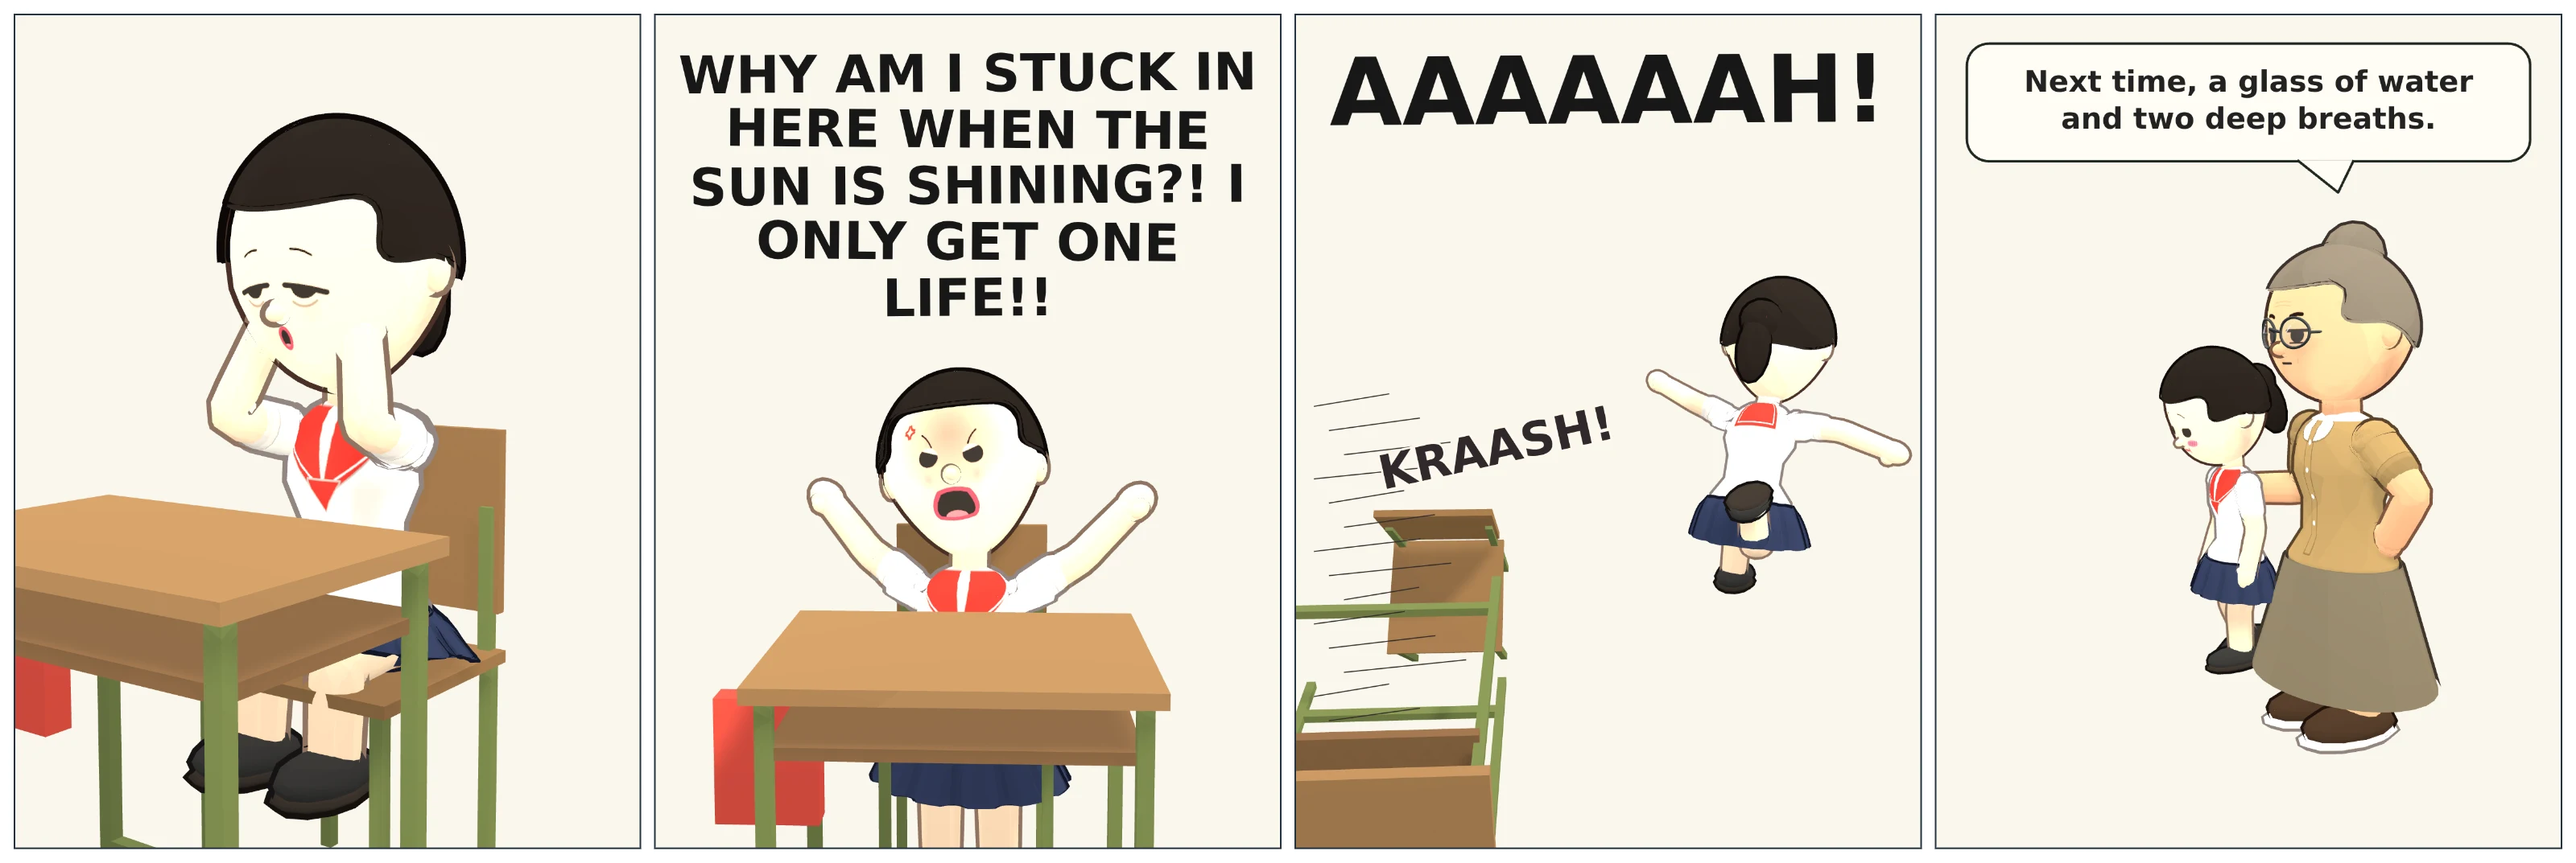
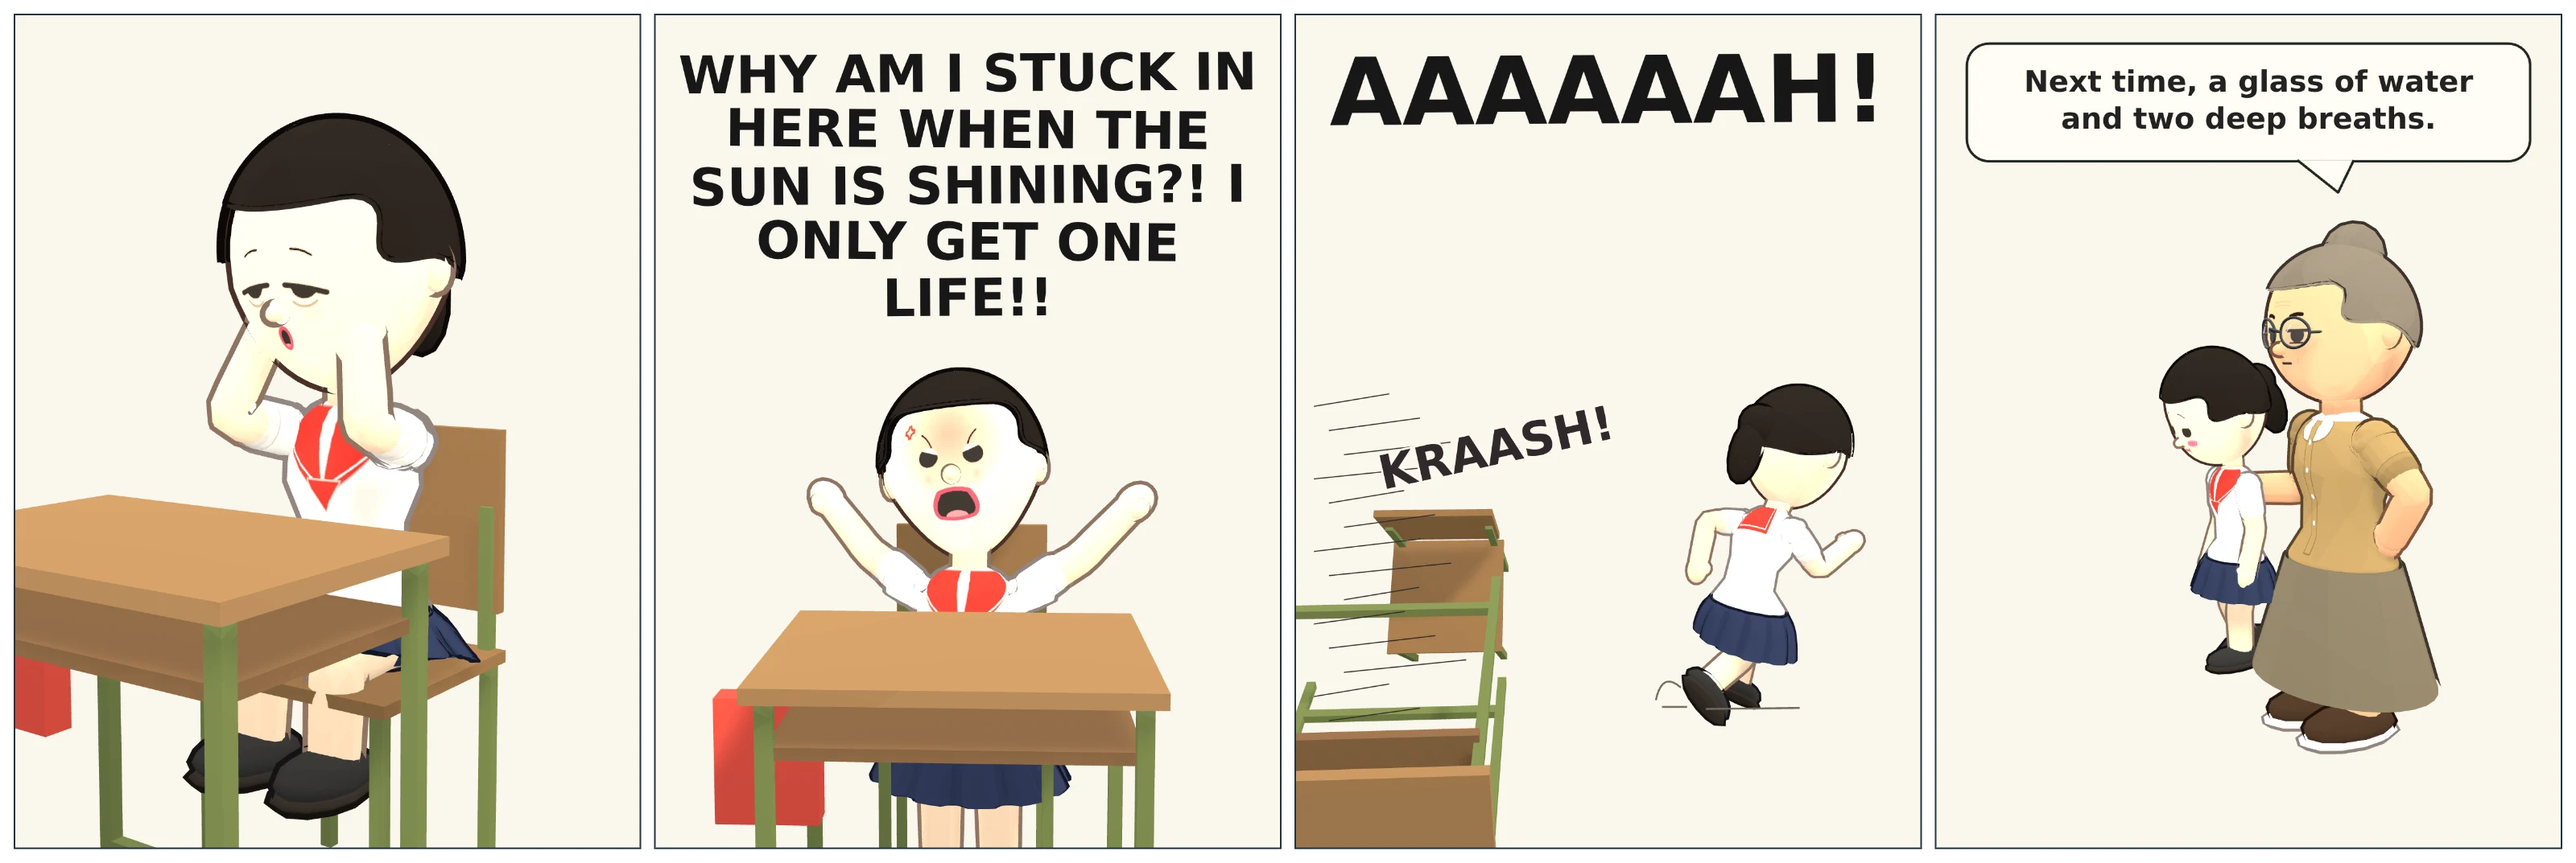
Ground Vy escape in a running stride with pumping arms

Changed region(s): [[0.625, 0.3075, 0.75, 0.8304]]

diff --git a/avatar-creator/scene.js b/avatar-creator/scene.js
@@ -1,6 +1,7 @@
-import {drawShout,drawStatement} from './scene-lettering.js?v=20261020-framing';
+import {drawShout,drawStatement} from './scene-lettering.js?v=20261020-grounded';
 import {CLASSROOM_VIEW} from './classroom-stage.js';
-import {classroomComic} from './classroom-comic.mjs?v=20261020-framing';
+import {classroomComic} from './classroom-comic.mjs?v=20261020-grounded';
+import {createSoleFinder} from '../johansson-town/src/avatars/foot-ground.js';
 import {applySceneContacts} from './scene-contact.js';
 import {filmStaging} from './film-staging.mjs';
 import {KNOWN_EXPRESSIONS,KNOWN_POSES} from './scene-catalogue.mjs';
@@ -17,8 +18,8 @@ import {STUDIO_CHARACTERS} from '../johansson-town/src/studio/characters-data.js
 import {normalizeRecipe} from '../johansson-town/src/avatars/recipe.js';
 import {drawCaptions,comicLayout,FORMATS} from '../johansson-town/src/photo/layout.js';
 import {buildSceneWorld} from './scene-world.js?v=20261011-2';
-import {poseSceneAvatar,placeSceneAvatar,movingPose} from './scene-avatar.js?v=20261020-framing';
-import {SCENE_KEY,MAX_ACTORS,MAX_PANELS,LOCATIONS,emptyScene,normalizeScene,addCharacter,removeCharacter,restoreCharacter,panelOrder,text,placementOf,applyPlacement,samePlacement} from './scene-model.mjs?v=20261020-framing';
+import {poseSceneAvatar,placeSceneAvatar,movingPose} from './scene-avatar.js?v=20261020-grounded';
+import {SCENE_KEY,MAX_ACTORS,MAX_PANELS,LOCATIONS,emptyScene,normalizeScene,addCharacter,removeCharacter,restoreCharacter,panelOrder,text,placementOf,applyPlacement,samePlacement} from './scene-model.mjs?v=20261020-grounded';
 import {pickMoment,applyMoment,aim} from './scene-moments.mjs?v=20261011-2';
 import {POSE_GROUPS,EXPRESSION_GROUPS,seatedPose} from './scene-catalogue.mjs';
 import {turnToward,touchAngle,twistTurn,nudgeStep,placeToolbar,pickBox,nearestSeat} from './scene-controls.mjs?v=20261011-2';
@@ -36,7 +37,7 @@ const figure=body=>`<svg class="ui-icon" aria-hidden="true" width="24" height="2
 const sitIcon=figure('<circle cx="9" cy="4.5" r="2.5"/><path d="M9 8v6h6v6M9 10.5l4.5 2M4 21h16"/>'),standIcon=figure('<circle cx="12" cy="4.5" r="2.5"/><path d="M12 8v7M8.5 11.5h7M9.5 21l2.5-6 2.5 6"/>');
 const choice=(name,label,options)=>`<div class="scene-choice" role="group" aria-label="${label}" data-choice="${name}">${options.map(([value,text])=>`<button type="button" data-value="${value}" aria-pressed="false">${text}</button>`).join('')}</div>`;
 
-function drawDash(ctx,w,h){ctx.save();ctx.strokeStyle='#332b2a';ctx.lineWidth=2;for(let i=0;i<14;i++){const y=h*(.47+i*.029),x=w*(.03+(i%3)*.024);ctx.beginPath();ctx.moveTo(x,y);ctx.lineTo(x+w*(.12+(i%4)*.025),y-h*.015);ctx.stroke();}ctx.translate(w*.14,h*.57);ctx.rotate(-.22);ctx.font=`900 ${Math.round(w*.075)}px sans-serif`;ctx.lineWidth=8;ctx.strokeStyle='#fff9ed';ctx.strokeText('KRAASH!',0,0);ctx.fillStyle='#30282b';ctx.fillText('KRAASH!',0,0);ctx.restore();}
+function drawDash(ctx,w,h,contacts=[]){ctx.save();for(const p of contacts){const x=(p.x+1)*w/2,y=(1-p.y)*h/2+3;ctx.strokeStyle='#756b5c';ctx.lineWidth=w*.003;ctx.beginPath();ctx.moveTo(x-w*.08,y+1);ctx.lineTo(x+w*.07,y-1);ctx.moveTo(x-w*.15,y-3);ctx.lineTo(x-w*.11,y-3);ctx.moveTo(x-w*.12,y-h*.025);ctx.quadraticCurveTo(x-w*.15,y-h*.045,x-w*.16,y-h*.01);ctx.stroke();}ctx.strokeStyle='#332b2a';ctx.lineWidth=2;for(let i=0;i<14;i++){const y=h*(.47+i*.029),x=w*(.03+(i%3)*.024);ctx.beginPath();ctx.moveTo(x,y);ctx.lineTo(x+w*(.12+(i%4)*.025),y-h*.015);ctx.stroke();}ctx.translate(w*.14,h*.57);ctx.rotate(-.22);ctx.font=`900 ${Math.round(w*.075)}px sans-serif`;ctx.lineWidth=8;ctx.strokeStyle='#fff9ed';ctx.strokeText('KRAASH!',0,0);ctx.fillStyle='#30282b';ctx.fillText('KRAASH!',0,0);ctx.restore();}
 /** 3D scene editor: shared town geometry, ground, furniture and avatar models. */
 export function createSceneWorkspace({getCharacter,onEdit,onMode}){
  let state=emptyScene();try{state=normalizeScene(JSON.parse(localStorage.getItem(SCENE_KEY)),normalizeRecipe);}catch{}
@@ -317,7 +318,7 @@ export function createSceneWorkspace({getCharacter,onEdit,onMode}){
      const live=state.actors.find(a=>a.id===actor.id);if(live){live.x=actor.x;live.z=actor.z;live.seat=actor.seat;}
     }
     environment.sky?.update(camera,1,false,false);renderer.render(environment.scene,camera);
-    canvas.width=w;canvas.height=h;ctx.drawImage(renderer.domElement,0,0);if(snapshot.effect==='dash')drawDash(ctx,w,h);const overlay=document.createElement('canvas');overlay.width=w;overlay.height=h;drawCaptions(overlay.getContext('2d'),w,h,{style:snapshot.style,top:snapshot.top,bottom:snapshot.bottom,bubbles:bubbles.filter(b=>!b.shout&&!b.large)});ctx.drawImage(overlay,0,0);for(const b of bubbles.filter(b=>b.shout))drawShout(ctx,w,h,b.text);for(const b of bubbles.filter(b=>b.large))drawStatement(ctx,w,h,b.text,b.x);
+    canvas.width=w;canvas.height=h;ctx.drawImage(renderer.domElement,0,0);if(snapshot.effect==='dash'){const contacts=snapshot.backdrop==='paper'?records.filter(r=>movingPose(r.actor.pose)&&!r.actor.y&&!r.actor.seat).map(r=>{const soles=createSoleFinder(r.avatar)(),side=soles.L.y<soles.R.y?'L':'R',point=r.avatar.root.worldToLocal(r.avatar.bones['foot'+side].getWorldPosition(new THREE.Vector3()));point.y=soles[side].y;point.z=soles[side].z;return r.avatar.root.localToWorld(point).project(camera);}):[];drawDash(ctx,w,h,contacts);}const overlay=document.createElement('canvas');overlay.width=w;overlay.height=h;drawCaptions(overlay.getContext('2d'),w,h,{style:snapshot.style,top:snapshot.top,bottom:snapshot.bottom,bubbles:bubbles.filter(b=>!b.shout&&!b.large)});ctx.drawImage(overlay,0,0);for(const b of bubbles.filter(b=>b.shout))drawShout(ctx,w,h,b.text);for(const b of bubbles.filter(b=>b.large))drawStatement(ctx,w,h,b.text,b.x);
     // Where each character is on the picture (fractions of it), for picking, the outline and the toolbar.
     const right=new THREE.Vector3().setFromMatrixColumn(camera.matrixWorld,0);
     boxes=placed.map(p=>{const corners=[];for(const x of [p.box.min.x,p.box.max.x])for(const y of [p.box.min.y,p.box.max.y])for(const z of [p.box.min.z,p.box.max.z])corners.push(new THREE.Vector3(x,y,z).project(camera));

diff --git a/avatar-creator/scene-avatar.js b/avatar-creator/scene-avatar.js
@@ -1,10 +1,11 @@
 import * as THREE from '../johansson-town/vendor/three.module.js';
 import {createAvatarAnimator,GESTURES} from '../johansson-town/src/avatars/animate.js';
+import {createFootGrounder} from '../johansson-town/src/avatars/foot-ground.js';
 import {reachHand} from './scene-contact.js';
 import {seatedPose} from './scene-catalogue.mjs';
 
 export const movingPose=name=>['Walk','Run','SchoolRun'].includes(name);
-const motion=new WeakMap();
+const motion=new WeakMap(),supports=new WeakMap();
 export function poseSceneAvatar(avatar,{pose='Idle',expression='smile',turn=0,seatHeight=.48,time:sample=0}){
  const custom=pose;pose=({SchoolRest:'Sit',SchoolProtest:'Tada',SchoolRun:'Idle',ComicLeap:'Idle',LiftedBack:'Idle',HoldBack:'Idle'})[pose]||pose;
  const duration=GESTURES[pose],time=Number.isFinite(duration)?duration*.43:.7;
@@ -16,7 +17,9 @@ export function poseSceneAvatar(avatar,{pose='Idle',expression='smile',turn=0,se
    track={pose:custom,time:0,animator:createAvatarAnimator(avatar,{random:()=>.5,initialTime:0})};motion.set(avatar,track);
   }
   avatar.root.position.y=track.rootY||0;
+  const advanced=track.time<elapsed-1e-8;
   while(track.time<elapsed-1e-8){const dt=Math.min(.025,elapsed-track.time);track.animator.update(dt,{expression,speed:custom==='Walk'?1.1:3.8,running:custom!=='Walk'});track.time+=dt;}track.rootY=avatar.root.position.y;
+  if(advanced)track.poseBones=Object.values(avatar.bones).map(b=>[b,b.quaternion.clone()]);else for(const [b,q] of track.poseBones)b.quaternion.copy(q);
  }else{
   const animator=createAvatarAnimator(avatar,{random:()=>.5,initialTime:0});if(duration)animator.play(pose);
   const steps=Math.ceil(time/.025);
@@ -25,6 +28,7 @@ export function poseSceneAvatar(avatar,{pose='Idle',expression='smile',turn=0,se
  const b=avatar.bones;
  if(custom==='SchoolRest'){b.head.rotation.x=.15;b.shoulderL.rotation.set(-1.2,0,.25);b.elbowL.rotation.x=-1.7;b.shoulderR.rotation.set(-1.2,0,-.25);b.elbowR.rotation.x=-1.7;}
  if(custom==='SchoolProtest'){b.chest.rotation.x=-.17;b.head.rotation.x=-.15;b.shoulderL.rotation.set(-.35,0,2.15);b.shoulderR.rotation.set(-.35,0,-2.15);b.elbowL.rotation.x=-.12;b.elbowR.rotation.x=-.12;b.thighL.rotation.set(0,0,0);b.kneeL.rotation.set(0,0,0);}
+ if(custom==='SchoolRun'){b.hips.rotation.x=.16;b.chest.rotation.x+=.22;b.head.rotation.x-=.08;b.shoulderL.rotation.x*=1.35;b.shoulderR.rotation.x*=1.35;b.elbowL.rotation.x=-1.45;b.elbowR.rotation.x=-1.45;let ground=supports.get(avatar);if(!ground){ground=createFootGrounder(avatar);supports.set(avatar,ground);}ground(0);}
  if(custom==='ComicLeap'){b.hips.rotation.x=.25;b.chest.rotation.x=.28;b.head.rotation.x=-.24;b.thighL.rotation.set(-1.15,0,.12);b.thighR.rotation.set(.8,0,-.1);b.kneeL.rotation.x=.9;b.kneeR.rotation.x=1.9;b.shoulderL.rotation.set(-.6,0,1.9);b.shoulderR.rotation.set(.5,0,-1.4);b.elbowL.rotation.x=-.2;b.elbowR.rotation.x=-.3;}
  if(custom==='LiftedBack'&&expression==='embarrassed'){b.head.rotation.x=.32;b.head.rotation.z=-.05;b.chest.rotation.x=.06;}
  if(custom==='LiftedBack'){b.thighL.rotation.x=-.15;b.thighR.rotation.x=.12;b.kneeL.rotation.x=.2;b.kneeR.rotation.x=.3;}

diff --git a/avatar-creator/studio.js b/avatar-creator/studio.js
@@ -4,7 +4,7 @@ import {openCreator} from '../johansson-town/src/avatars/creator.js';
 import {ORIGINAL_THUAN_RECIPE,recipeFor,RESIDENT_NAMES} from '../johansson-town/src/avatars/cast.js';
 import {STUDIO_CHARACTERS} from '../johansson-town/src/studio/characters-data.js';
 import {normalizeRecipe,decodeRecipe} from '../johansson-town/src/avatars/recipe.js';
-import {createSceneWorkspace} from './scene.js?v=20261020-framing';
+import {createSceneWorkspace} from './scene.js?v=20261020-grounded';
 import {createWorldPanel} from './world-panel.js?v=20261011-1';
 import {createHomeWorkspace} from './home.js?v=20261011-1';
 import {createModelWorkspace} from './model.js?v=20261020-workshop';

diff --git a/avatar-creator/index.html b/avatar-creator/index.html
@@ -26,7 +26,7 @@
 <body class="creator-page standalone-studio">
   <noscript>Enable JavaScript to create your character.</noscript>
   <p id="loading" role="status">Loading Johansson Studio…</p>
-  <script type="module" src="/avatar-creator/studio.js?v=20261020-framing"></script>
+  <script type="module" src="/avatar-creator/studio.js?v=20261020-grounded"></script>
 </body>
 </html>
 

diff --git a/avatar-creator/docs/CLASSROOM-COMIC.md b/avatar-creator/docs/CLASSROOM-COMIC.md
@@ -42,8 +42,10 @@ The final side view exposed the classroom’s existing noticeboard defect: long 
 
 Studio now offers Walk, Run, School run and Comic leap. Play cast advances the same World locomotion rig used in town, including alternating strides, bent elbows and body bounce; the scene timeline can seek backwards deterministically. Saved scene times preserve the frame chosen for a panel. The shared animator accepts an optional initial clock for repeatable Studio sampling; World retains its existing random starting clock.
 
-The example uses tear-free rage and panic, wider mouths, an airborne escape, large unboxed shout lettering and optional plain comic paper. Both lettering and backdrop have controls under Add text. The full classroom remains selectable. The teacher and pupil retain their side-view lift and ashamed expression.
+The example uses tear-free rage and panic, wider mouths, a grounded running escape, large unboxed shout lettering and optional plain comic paper. Both lettering and backdrop have controls under Add text. The full classroom remains selectable. The teacher and pupil retain their side-view lift and ashamed expression.
 
 Verification: 10 schema/motion tests passed; pose/catalogue checks passed with one existing floor-skirt TODO. Chromium renders a 24-frame run cycle through the actual Studio workspace. The browser acceptance check also exercises timeline seeking, rewind and Play cast, alongside project round trips at tablet and phone sizes.
 
 The revised camera pass shows the first desk pose from the side, the escape from behind, and the final lift from an angle that separates Vy from the teacher. A reusable large speech-bubble option keeps the teacher’s complete line readable across the top of the panel.
+
+The escape now samples School run at 0.30 s, with a stronger forward lean and bent, opposing arms. The actual shoe supports are grounded after posing; the paper treatment projects a short floor stroke and dust marks from the planted sole. The jump pose remains available separately. Eleven scene/motion tests pass, including planted-sole height and repeat-frame stability.
